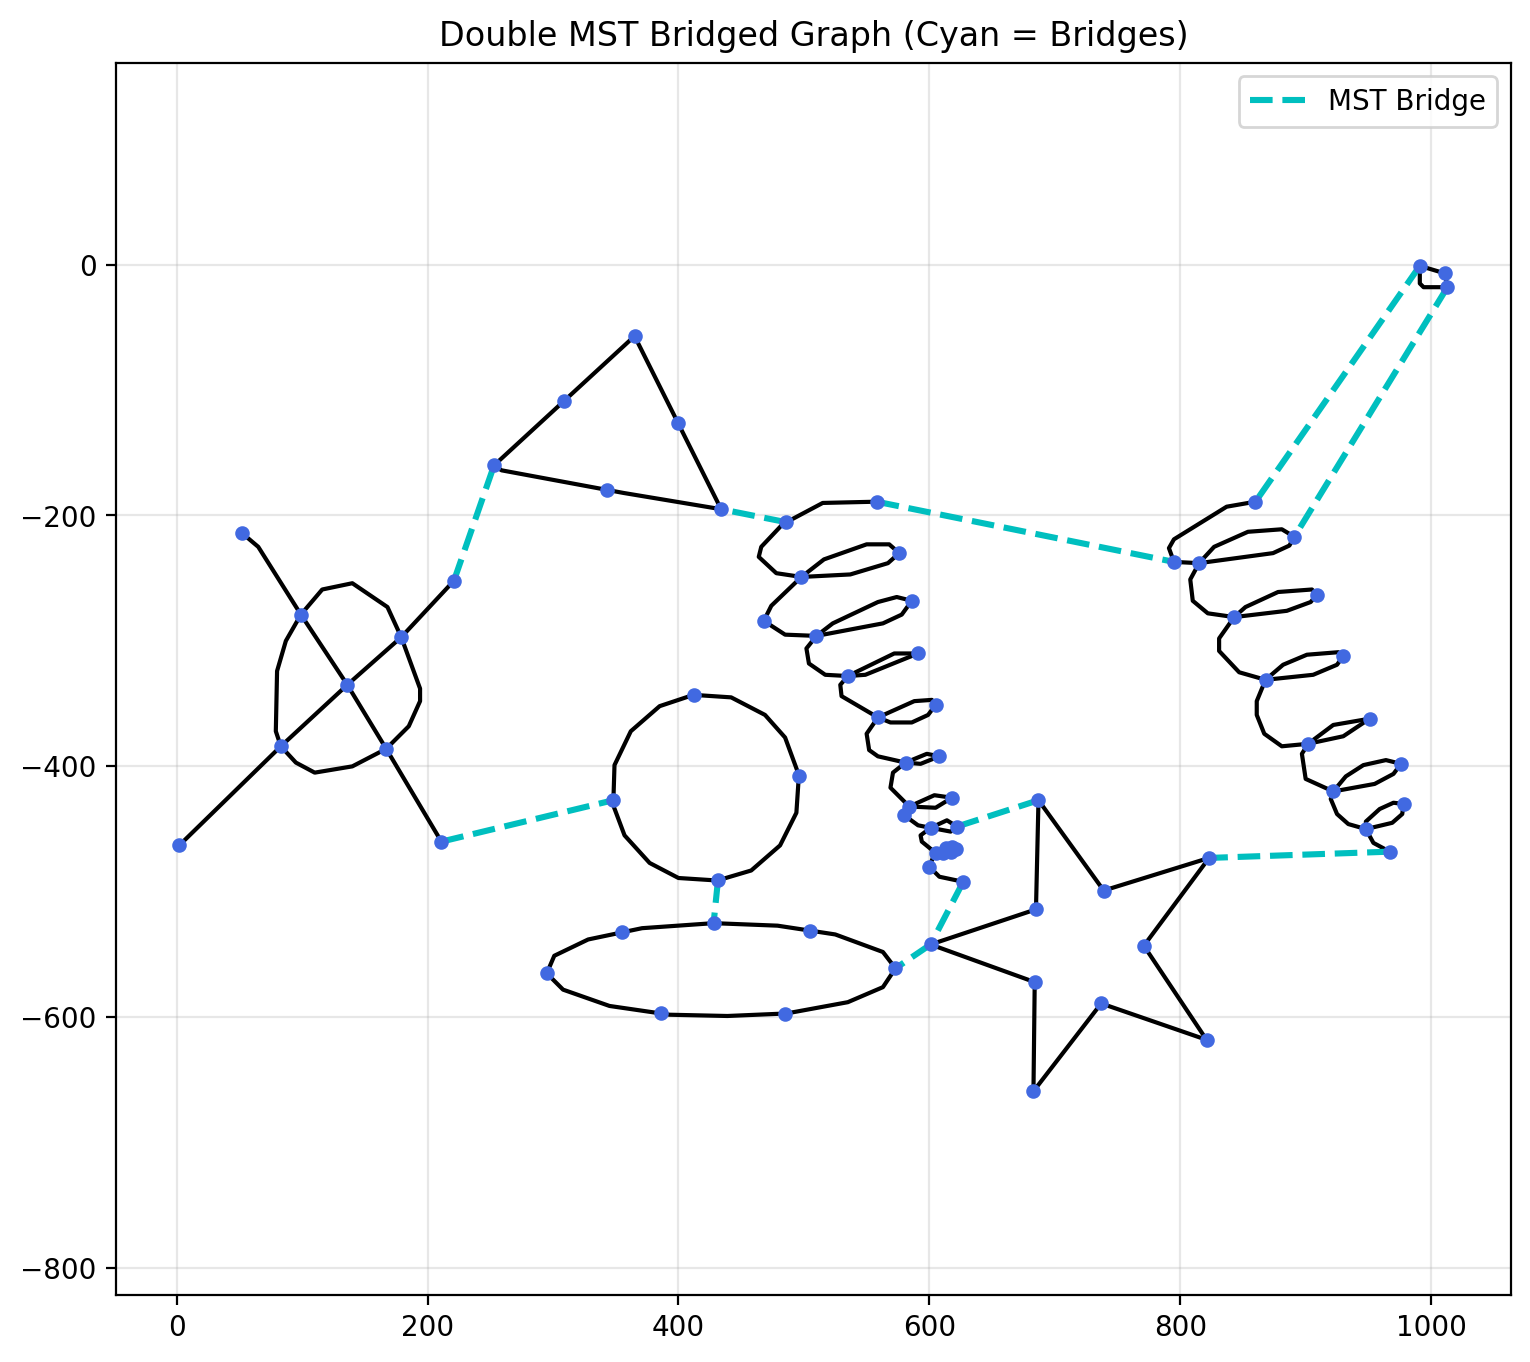
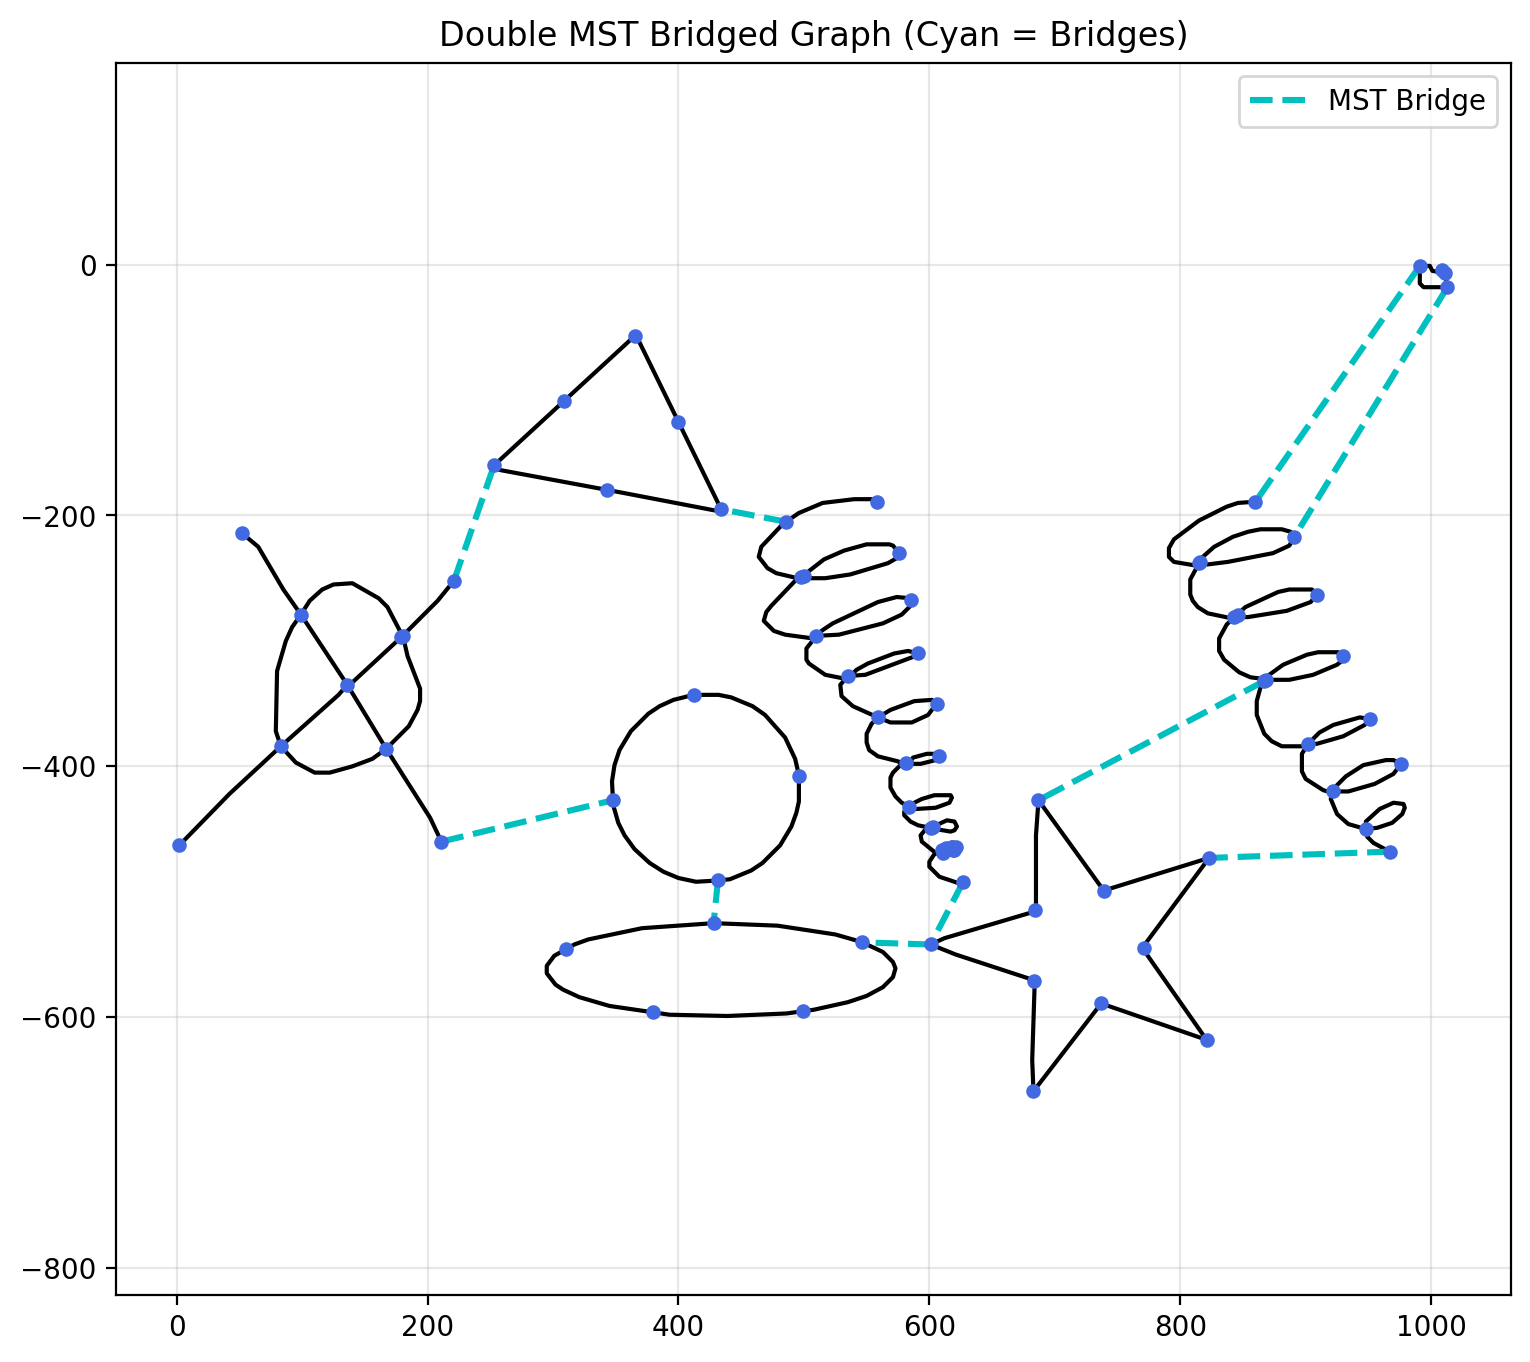
bridge

diff --git a/formulation_main.py b/formulation_main.py
@@ -29,17 +29,17 @@ from route_mapping import (
 # ==========================================================
 
 # 1. File Input / Output
-IMAGE_PATH              = "Example_images/Shapes.png"  # Path to input sketch or drawing
+IMAGE_PATH              = "bridge.png"  # Path to input sketch or drawing
 OUTPUT_DIR              = "outputs"                    # Folder where all plots & polylines are saved
 SAVE_POLYLINE           = True                         # Save final continuous polyline (.npy)
 
 # 2. Rescaling & Binarisation (Section 2.1.1)
-INPUT_STROKE_WIDTH      = 2                          # Estimated input stroke thickness in pixels
-TARGET_STROKE_WIDTH     = 2                          # Normalised stroke thickness for skeletonisation
+INPUT_STROKE_WIDTH      = 10                          # Estimated input stroke thickness in pixels
+TARGET_STROKE_WIDTH     = 10                          # Normalised stroke thickness for skeletonisation
 BINARISE_THRESH         = 128                          # Grayscale binarisation threshold (0-255)
 
 # 3. Decimation & Node Merging (Sections 2.1.3 - 2.1.4)
-RDP_EPSILON_PROP        = 0.002                        # RDP tolerance as a fraction of diagonal D (0.2%)
+RDP_EPSILON_PROP        = 0.000001                        # RDP tolerance as a fraction of diagonal D (0.2%)
 D_EUCLID_PROP           = 0.008                        # Spatial node merge radius as fraction of D (0.8%)
 D_EDGE_FACTOR           = 2.5                          # Multiplier on d_euclid for short junction edge merging
 
